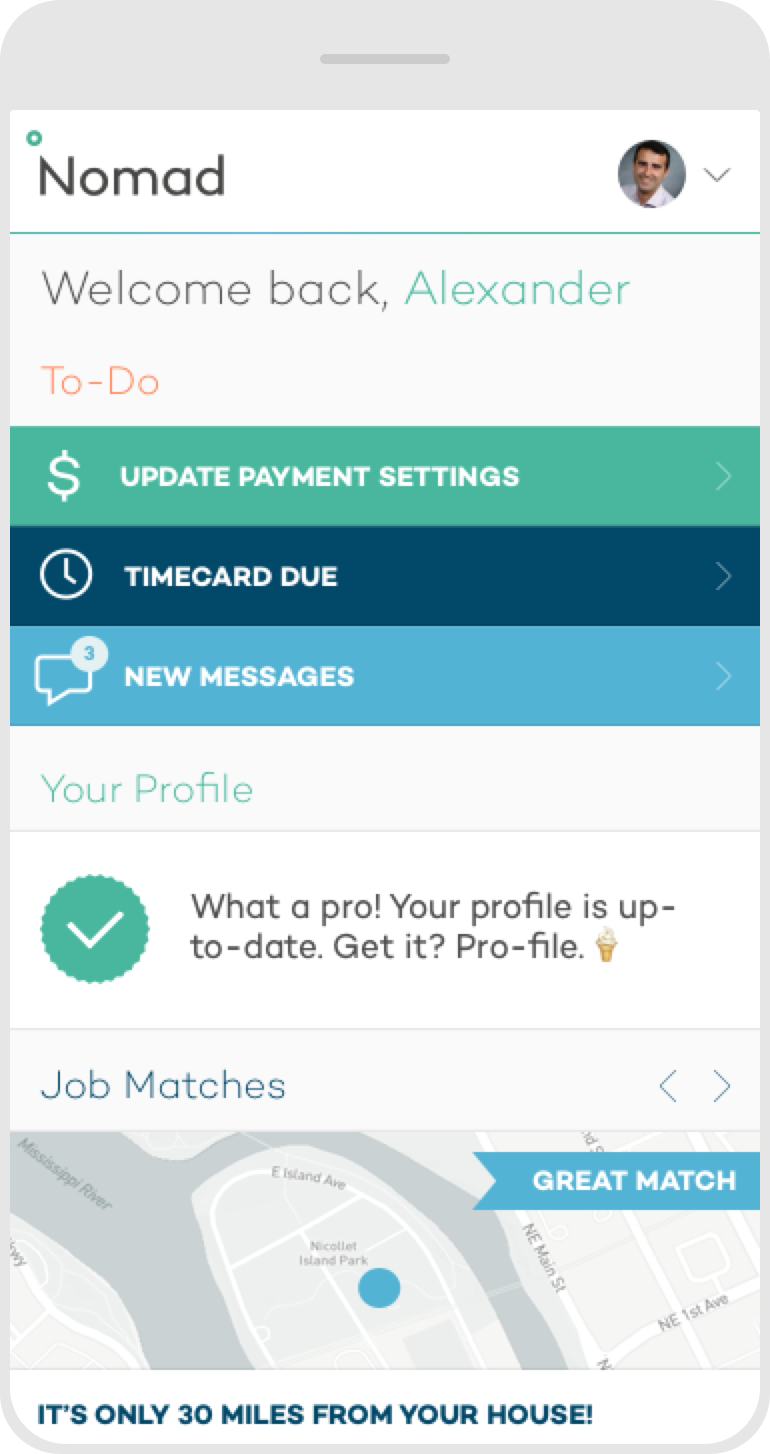
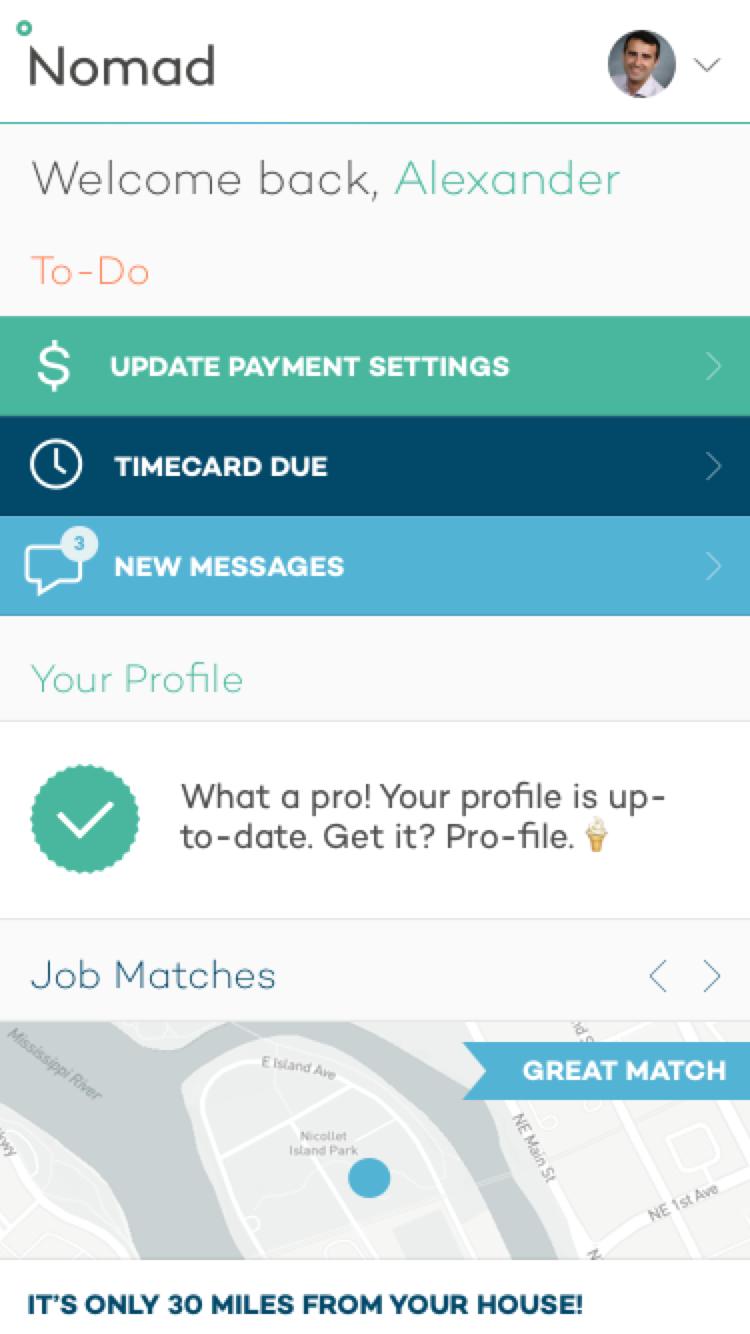
Done with Nomad, for now

diff --git a/pages/portfolio/nomad/index.js b/pages/portfolio/nomad/index.js
@@ -154,31 +154,37 @@ export default class Nomad extends Component {
               className="col-xs-4 portfolio-media-item"
               style={{ background: "#fff0fb" }}
             >
-              <ImageLoader
-                className="portfolio-media-item-phone load-in load-in--sequence-1"
-                img="/images/nomad/dashboard-mobile.png"
-                aspectRatio={727 / 385}
-              />
+              <DeviceFrame type="phone" className="load-in load-in--sequence-1">
+                <ImageLoader
+                  img="/images/nomad/dashboard-mobile.png"
+                  aspectRatio={1334 / 750}
+                />
+              </DeviceFrame>
             </div>
             <div
               className="col-xs-4 portfolio-media-item"
               style={{ background: "#f8f8ff" }}
             >
-              <ImageLoader
-                className="portfolio-media-item-phone load-in load-in--sequence-2"
-                img="/images/nomad/search-mobile.png"
-                aspectRatio={727 / 385}
-              />
+              <DeviceFrame
+                type="phone--light"
+                className="load-in load-in--sequence-2"
+              >
+                <ImageLoader
+                  img="/images/nomad/search-mobile.png"
+                  aspectRatio={1334 / 750}
+                />
+              </DeviceFrame>
             </div>
             <div
               className="col-xs-4 portfolio-media-item"
               style={{ background: "#fffaf0" }}
             >
-              <ImageLoader
-                className="portfolio-media-item-phone load-in load-in--sequence-3"
-                img="/images/nomad/public-facility-mobile.png"
-                aspectRatio={727 / 385}
-              />
+              <DeviceFrame className="load-in load-in--sequence-3" type="phone">
+                <ImageLoader
+                  img="/images/nomad/public-facility-mobile.png"
+                  aspectRatio={1334 / 750}
+                />
+              </DeviceFrame>
             </div>
           </div>
         </section>
@@ -188,11 +194,12 @@ export default class Nomad extends Component {
               className="col-xs-12 portfolio-media-item"
               style={{ background: "#FFF8DA" }}
             >
-              <ImageLoader
-                className="portfolio-media-item-browser load-in"
-                img="/images/nomad/post-a-job.png"
-                aspectRatio={1024 / 1440}
-              />
+              <DeviceFrame className="load-in">
+                <ImageLoader
+                  img="/images/nomad/post-a-job@2x.png"
+                  aspectRatio={1600 / 2880}
+                />
+              </DeviceFrame>
             </div>
           </div>
         </section>

diff --git a/components/device-frame/styles.scss b/components/device-frame/styles.scss
@@ -52,21 +52,21 @@ $base-name: ".device-frame";
   &--phone {
     max-width: 320px;
     overflow: hidden;
-    border-radius: 34px;
+    border-radius: 3.4vw;
     background: #111;
-    padding: 5px;
+    padding: 0.5vw;
 
     #{$base-name} {
       &-header {
-        height: 40px;
-        max-height: initial;
+        max-height: 40px;
         background: inherit;
 
         &:after {
           content: "";
-          width: 40px;
-          height: 4px;
-          border-radius: 2px;
+          width: 4vw;
+          max-width: 40px;
+          height: 0.4vw;
+          border-radius: 0.2vw;
           background: #333;
           position: absolute;
           left: 50%;
@@ -79,7 +79,18 @@ $base-name: ".device-frame";
       }
 
       &-body {
-        border-radius: 5px 5px 30px 30px;
+        border-radius: 0 0 3vw 3vw;
+      }
+    }
+  }
+
+  &--phone--light {
+    @extend #{$base-name}--phone;
+    background: #efefef;
+
+    #{$base-name}-header {
+      &:after {
+        background: #ddd;
       }
     }
   }
